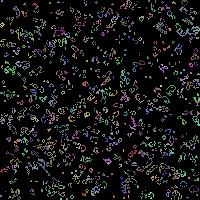
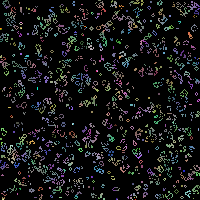
Adding toroidal option

Changed region(s): [[0.0, 0.0, 1.0, 1.0], [0.42, 0.0, 0.45, 0.03]]

diff --git a/TP7/exo4.c b/TP7/exo4.c
@@ -50,9 +50,9 @@ struct colorAllocation allocatedColors[COLOR_COUNT];
  */
 void printUsage(const char* programName) {
 	fprintf(stderr, "Usage:\n");
-	fprintf(stderr, "   %s --random [width height]\n", programName);
-	fprintf(stderr, "   %s --bmp file.bmp\n", programName);
-	fprintf(stderr, "   %s --rle file.rle\n", programName);
+	fprintf(stderr, "   %s --random [width height] [--toroidal]\n", programName);
+	fprintf(stderr, "   %s --bmp file.bmp [--toroidal]\n", programName);
+	fprintf(stderr, "   %s --rle file.rle [--toroidal]\n", programName);
 }
 // >>>
 // Get Hex Code <<<
@@ -408,6 +408,7 @@ unsigned short int neighbourCount(const struct pixel* const tab,
 									const unsigned int x, const unsigned int y,
 									const unsigned int tabWidth,
 									const unsigned int tabHeight,
+									const byte toroidal,
 									const unsigned short int red,
 									const unsigned short int green,
 									const unsigned short int blue) {
@@ -420,6 +421,30 @@ unsigned short int neighbourCount(const struct pixel* const tab,
 		for(unsigned int j = yStart ; j <= yEnd ; ++j)
 			if(isAlive(tab[i + (j * tabWidth)], red, green, blue))
 				++count;
+
+	if(toroidal) {
+		if(x == 0 || x == tabWidth - 1) {
+			const unsigned int wrapCol = (x == 0)? tabWidth - 1 : 0;
+			for(unsigned int i = yStart ; i <= yEnd ; ++i)
+				if(isAlive(tab[wrapCol + (i * tabWidth)], red, green, blue))
+					++count;
+		}
+
+		if(y == 0 || y == tabHeight - 1) {
+			const unsigned int wrapRow = (y == 0)? tabHeight - 1 : 0;
+			for(unsigned int i = xStart ; i <= xEnd ; ++i)
+				if(isAlive(tab[i + (wrapRow * tabWidth)], red, green, blue))
+					++count;
+		}
+
+		if((x == 0 || x == tabWidth - 1) && (y == 0 || y == tabHeight - 1)) {
+			const unsigned int wrapCol = (x == 0)? tabWidth - 1 : 0;
+			const unsigned int wrapRow = (y == 0)? tabHeight - 1 : 0;
+			if(isAlive(tab[wrapCol + (wrapRow * tabWidth)], red, green, blue))
+				++count;
+		}
+	}
+
 	return (isAlive(tab[x+(y*tabWidth)],red,green,blue))? count - 1 : count;
 }
 // >>>
@@ -444,6 +469,7 @@ struct pixel mixNeighboursColors(const struct pixel* const tab,
 								const unsigned int x, const unsigned int y,
 								const unsigned int tabWidth,
 								const unsigned int tabHeight,
+								const byte toroidal,
 								const unsigned short int red,
 								const unsigned short int green,
 								const unsigned short int blue) {
@@ -451,9 +477,8 @@ struct pixel mixNeighboursColors(const struct pixel* const tab,
                  yStart = (y == 0)? 0 : y - 1,
                    xEnd = (x == tabWidth)? tabWidth : x + 1,
                    yEnd = (y == tabHeight)? tabHeight : y + 1;
-	unsigned int n = 0;
 	const unsigned short int count = neighbourCount(tab, x, y, tabWidth, tabHeight,
-												red, green, blue);
+												toroidal, red, green, blue);
 	unsigned short int redMean = 0, greenMean = 0, blueMean = 0;
 
 	for(unsigned int i = xStart ; i <= xEnd ; ++i)
@@ -462,8 +487,39 @@ struct pixel mixNeighboursColors(const struct pixel* const tab,
 				redMean   += tab[i + (j * tabWidth)].pixelBytes[red];
 				greenMean += tab[i + (j * tabWidth)].pixelBytes[green];
 				blueMean  += tab[i + (j * tabWidth)].pixelBytes[blue];
-				++n;
 			}
+
+	if(toroidal) {
+		if(x == 0 || x == tabWidth - 1) {
+			const unsigned int wrapCol = (x == 0)? tabWidth - 1 : 0;
+			for(unsigned int i = yStart ; i <= yEnd ; ++i)
+				if(isAlive(tab[wrapCol + (i * tabWidth)], red, green, blue)) {
+					redMean   += tab[wrapCol + (i * tabWidth)].pixelBytes[red];
+					greenMean += tab[wrapCol + (i * tabWidth)].pixelBytes[green];
+					blueMean  += tab[wrapCol + (i * tabWidth)].pixelBytes[blue];
+				}
+		}
+
+		if(y == 0 || y == tabHeight - 1) {
+			const unsigned int wrapRow = (y == 0)? tabHeight - 1 : 0;
+			for(unsigned int i = xStart ; i <= xEnd ; ++i)
+				if(isAlive(tab[i + (wrapRow * tabWidth)], red, green, blue)) {
+					redMean   += tab[i + (wrapRow * tabWidth)].pixelBytes[red];
+					greenMean += tab[i + (wrapRow * tabWidth)].pixelBytes[green];
+					blueMean  += tab[i + (wrapRow * tabWidth)].pixelBytes[blue];
+				}
+		}
+
+		if((x == 0 || x == tabWidth - 1) && (y == 0 || y == tabHeight - 1)) {
+			const unsigned int wrapCol = (x == 0)? tabWidth - 1 : 0;
+			const unsigned int wrapRow = (y == 0)? tabHeight - 1 : 0;
+			if(isAlive(tab[wrapCol + (wrapRow * tabWidth)], red, green, blue)) {
+				redMean   += tab[wrapCol + (wrapRow * tabWidth)].pixelBytes[red];
+				greenMean += tab[wrapCol + (wrapRow * tabWidth)].pixelBytes[green];
+				blueMean  += tab[wrapCol + (wrapRow * tabWidth)].pixelBytes[blue];
+			}
+		}
+	}
 
 	struct pixel mean;
 	mean.pixelBytes[red] = redMean / count;
@@ -494,14 +550,16 @@ struct pixel mixNeighboursColors(const struct pixel* const tab,
  * @param blue the position of the blue color code
  */
 void nextStep(struct pixel* const tab, const unsigned int tabWidth,
-			const unsigned int tabHeight, const unsigned short int red,
-			const unsigned short int green, const unsigned short int blue) {
+			const unsigned int tabHeight, const byte toroidal,
+			const unsigned short int red, const unsigned short int green,
+			const unsigned short int blue) {
 	struct pixel tabTmp[tabWidth * tabHeight];
 	// Tab in which the changes are made before applied
 	for(unsigned int i = 0 ; i < tabWidth ; i++) {
 		for(unsigned int j = 0 ; j < tabHeight ; j++) {
 			const unsigned short int neighboursCount = neighbourCount(tab, i, j,
 															tabWidth, tabHeight,
+															toroidal,
 															red, green, blue);
 			if(isAlive(tab[i + (j * tabWidth)], red, green, blue)) {
 				// Loneliness and overcrowding
@@ -517,6 +575,7 @@ void nextStep(struct pixel* const tab, const unsigned int tabWidth,
 				if(neighboursCount == 3)
 					tabTmp[i + (j * tabWidth)] = mixNeighboursColors(tab, i, j,
 															tabWidth, tabHeight,
+															toroidal,
 															red, green, blue);
 				else {
 					tabTmp[i + (j * tabWidth)].pixelBytes[red]   = 0;
@@ -530,11 +589,12 @@ void nextStep(struct pixel* const tab, const unsigned int tabWidth,
 }
 // >>>
 
-int main (int const argc, char const* argv[]) {
+int main (int argc, char const* argv[]) {
 
 	FILE* f;
 	unsigned short int bpp, red = 2, green = 1, blue = 0;
 	unsigned int pixelStart, pixelEnd;
+	byte toroidal = 0;
 
 	for(int i = 0 ; i < COLOR_COUNT ; ++i)
 		allocatedColors[i].allocated = 0;
@@ -542,6 +602,14 @@ int main (int const argc, char const* argv[]) {
 	srand(time(NULL));
 
 	// ====== Check command-line usage ====== <<<
+	for(int i = 0 ; i < argc ; ++i) {
+		if(!strcmp(argv[i], "--toroidal")) {
+			toroidal = 1;
+			--argc;
+			break;
+		}
+	}
+
 	if(argc == 1 || argc > 4) {
 		printUsage(argv[0]);
 		return EX_USAGE;
@@ -695,8 +763,7 @@ int main (int const argc, char const* argv[]) {
 
 	affiche(dpy, w, gc, pic, width, height, red, green, blue);
 	for(;;) {
-		sleep(.5);
-		nextStep(pic, width, height, red, green, blue);
+		nextStep(pic, width, height, toroidal, red, green, blue);
 		affiche(dpy, w, gc, pic, width, height, red, green, blue);
 	}
 	sleep(5);
